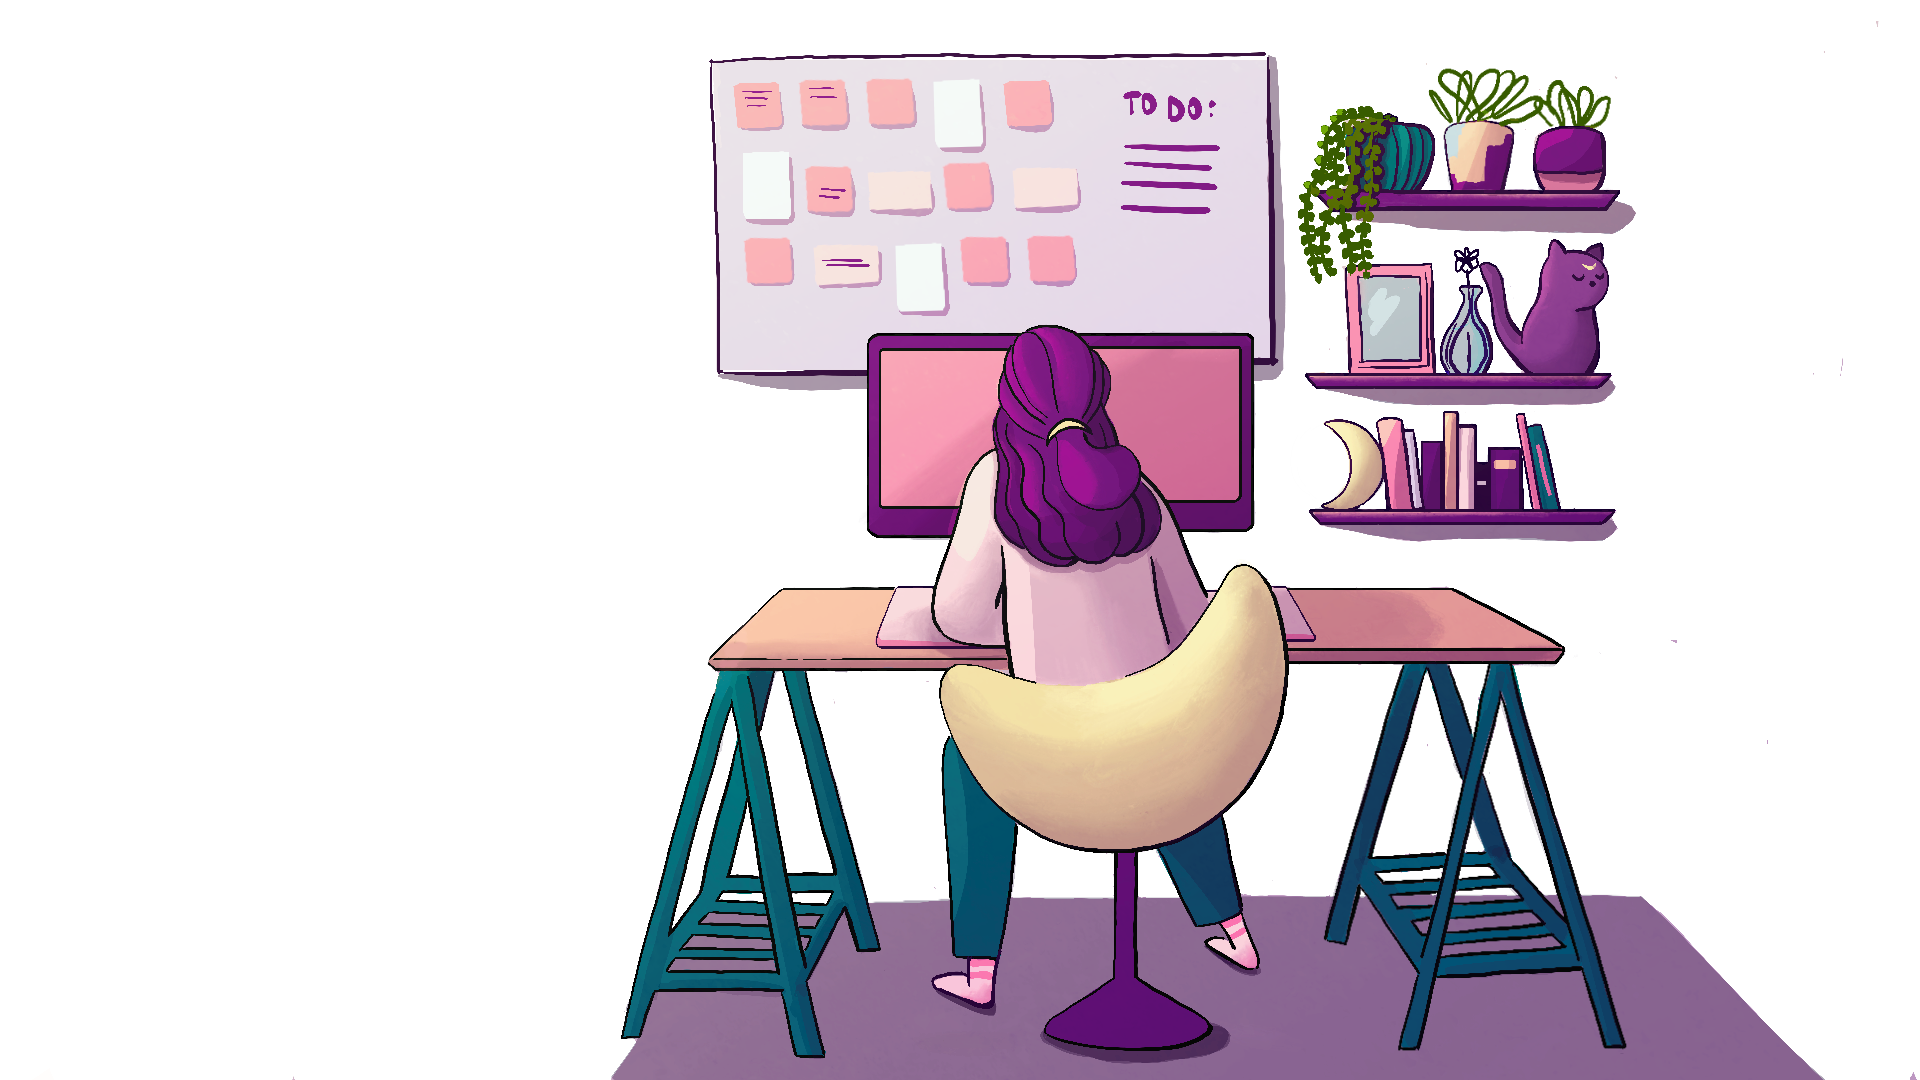
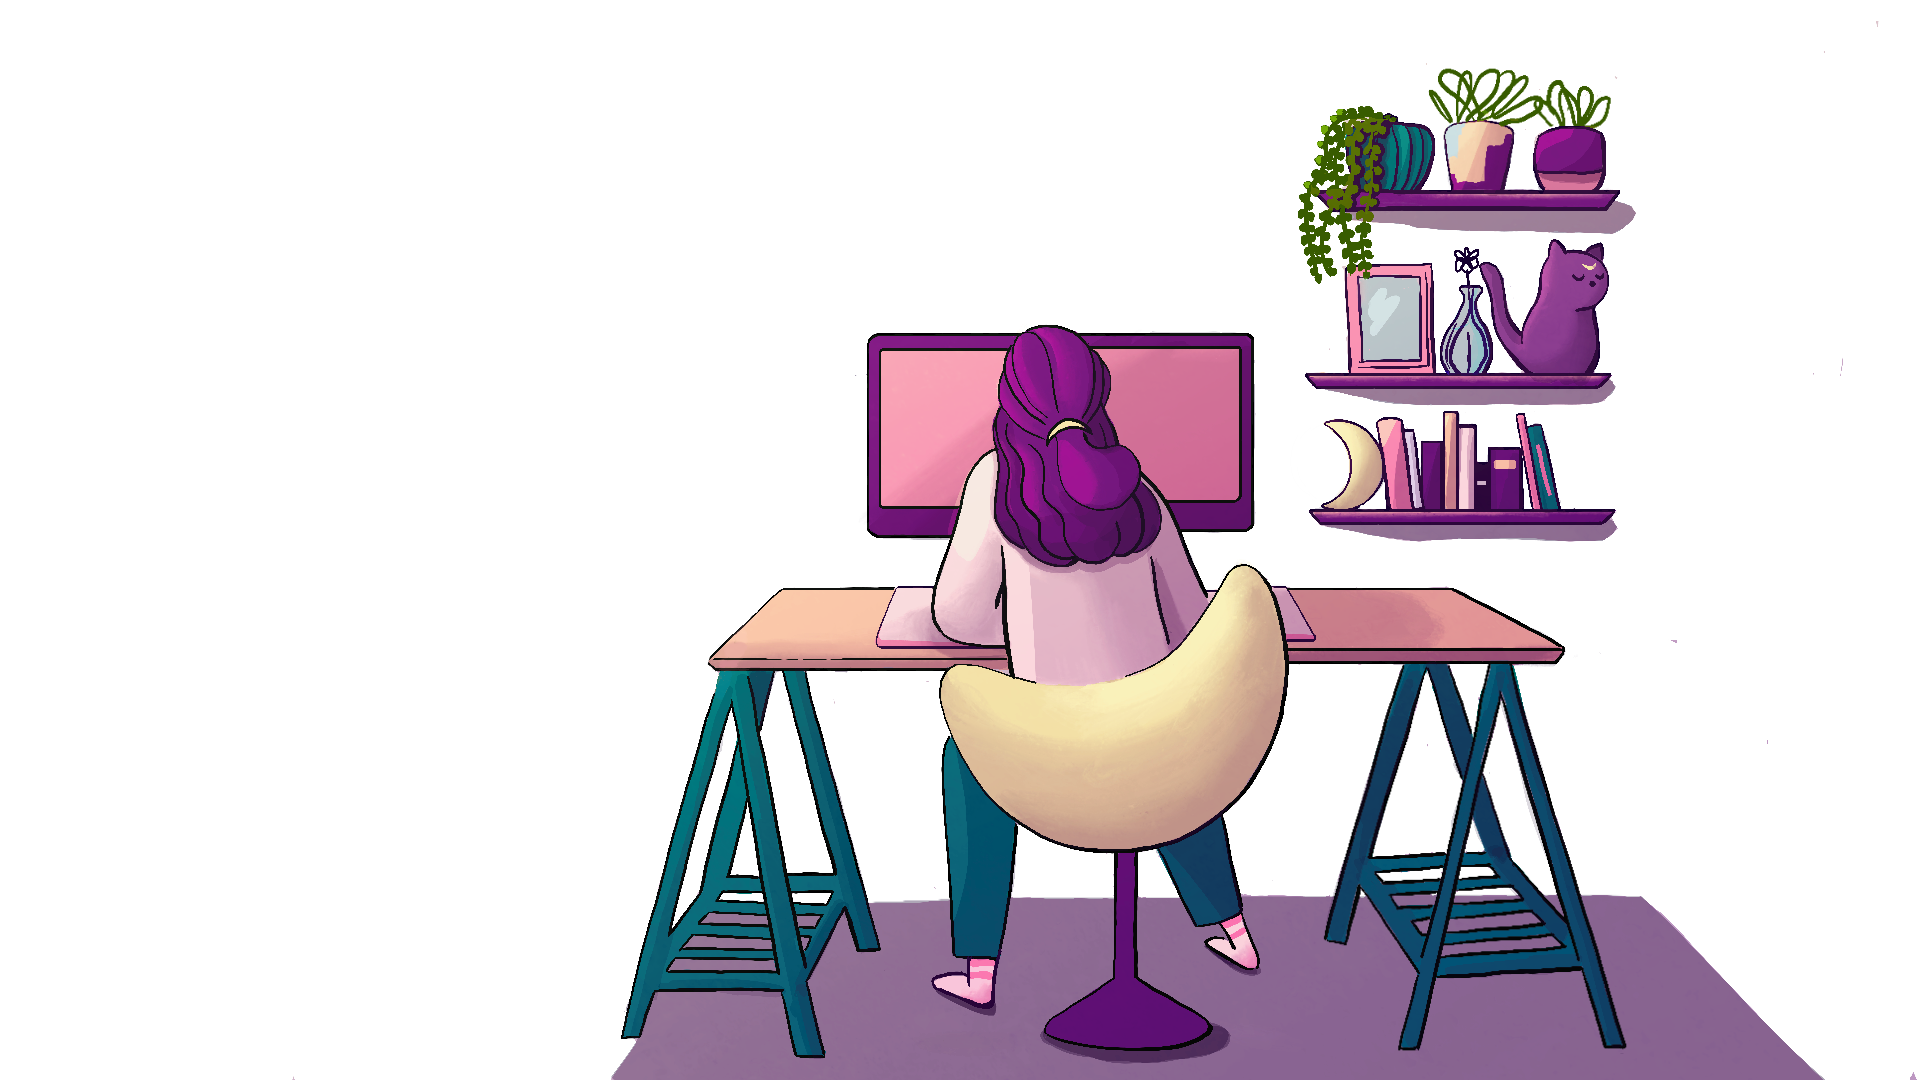
Add javascript animation to our images

Changed region(s): [[0.375, 0.0306, 0.6875, 0.3667]]

diff --git a/assets/js/script.js b/assets/js/script.js
@@ -1,0 +1,28 @@
+const desk = document.getElementById('desk')
+const plant = document.getElementById('plant')
+const board = document.getElementById('board')
+const deskYFromBottom = 10
+const deskYFromLeft = 0
+const plantYFromRight = 0
+const plantYFromBottom = 10
+const boardYFromBottom = 10
+
+board.style.bottom = boardYFromBottom + '%'
+plant.style.bottom = plantYFromBottom + '%'
+plant.style.marginRight = plantYFromRight + '%'
+desk.style.marginLeft = deskYFromLeft + '%'
+desk.style.bottom = deskYFromBottom + '%'
+
+function move() {
+    const incrementer = window.scrollY
+
+    desk.style.bottom = deskYFromBottom + incrementer * 0.1 + '%'
+    desk.style.marginLeft = deskYFromLeft + incrementer * 0.15 + '%'
+
+    plant.style.bottom = plantYFromBottom + incrementer * 0.1 + '%'
+    plant.style.marginRight = plantYFromRight + incrementer * 0.10 + '%'
+
+    board.style.bottom = boardYFromBottom + incrementer * 0.15 + '%'
+}
+
+window.addEventListener('scroll', move)

diff --git a/assets/css/style.css b/assets/css/style.css
@@ -21,7 +21,7 @@ body {
 .office img {
     position: absolute;
     width: 100%;
-    bottom: 0;
+    bottom: 10%;
 }
 
 #desk {
@@ -31,7 +31,6 @@ body {
 
 #plant {
     width: 100%;
-    margin-left: 5%;
 }
 
 .btn {
